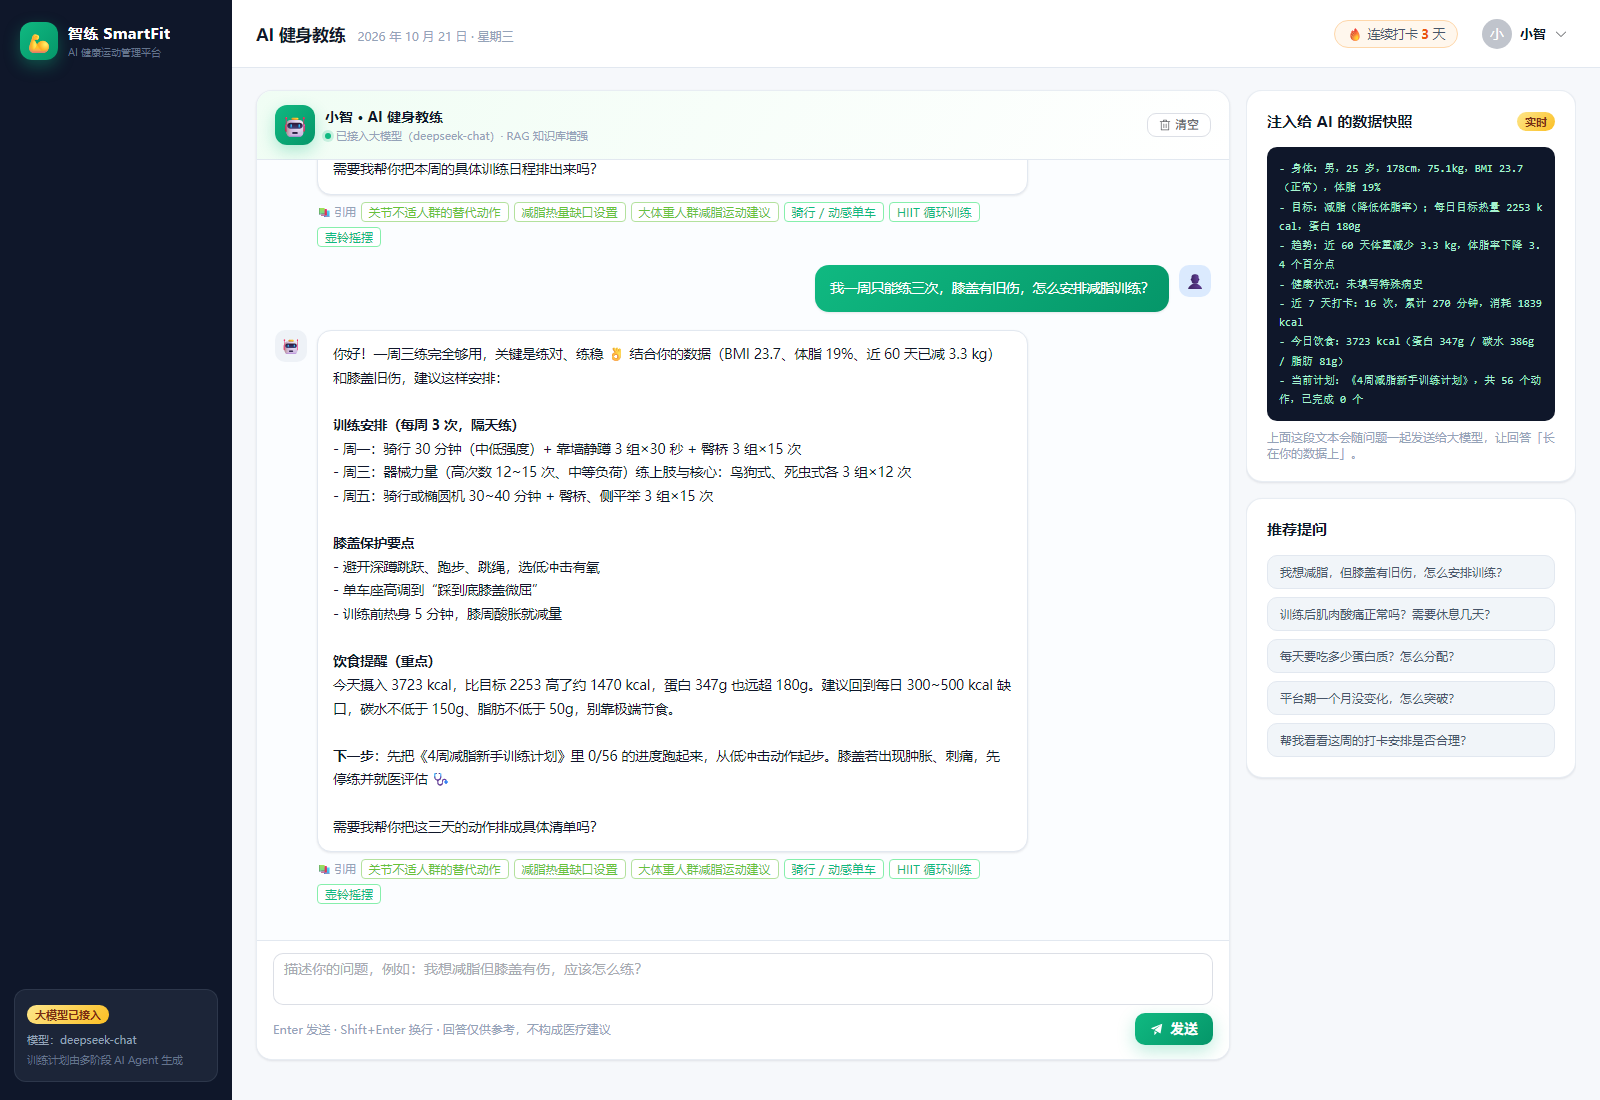
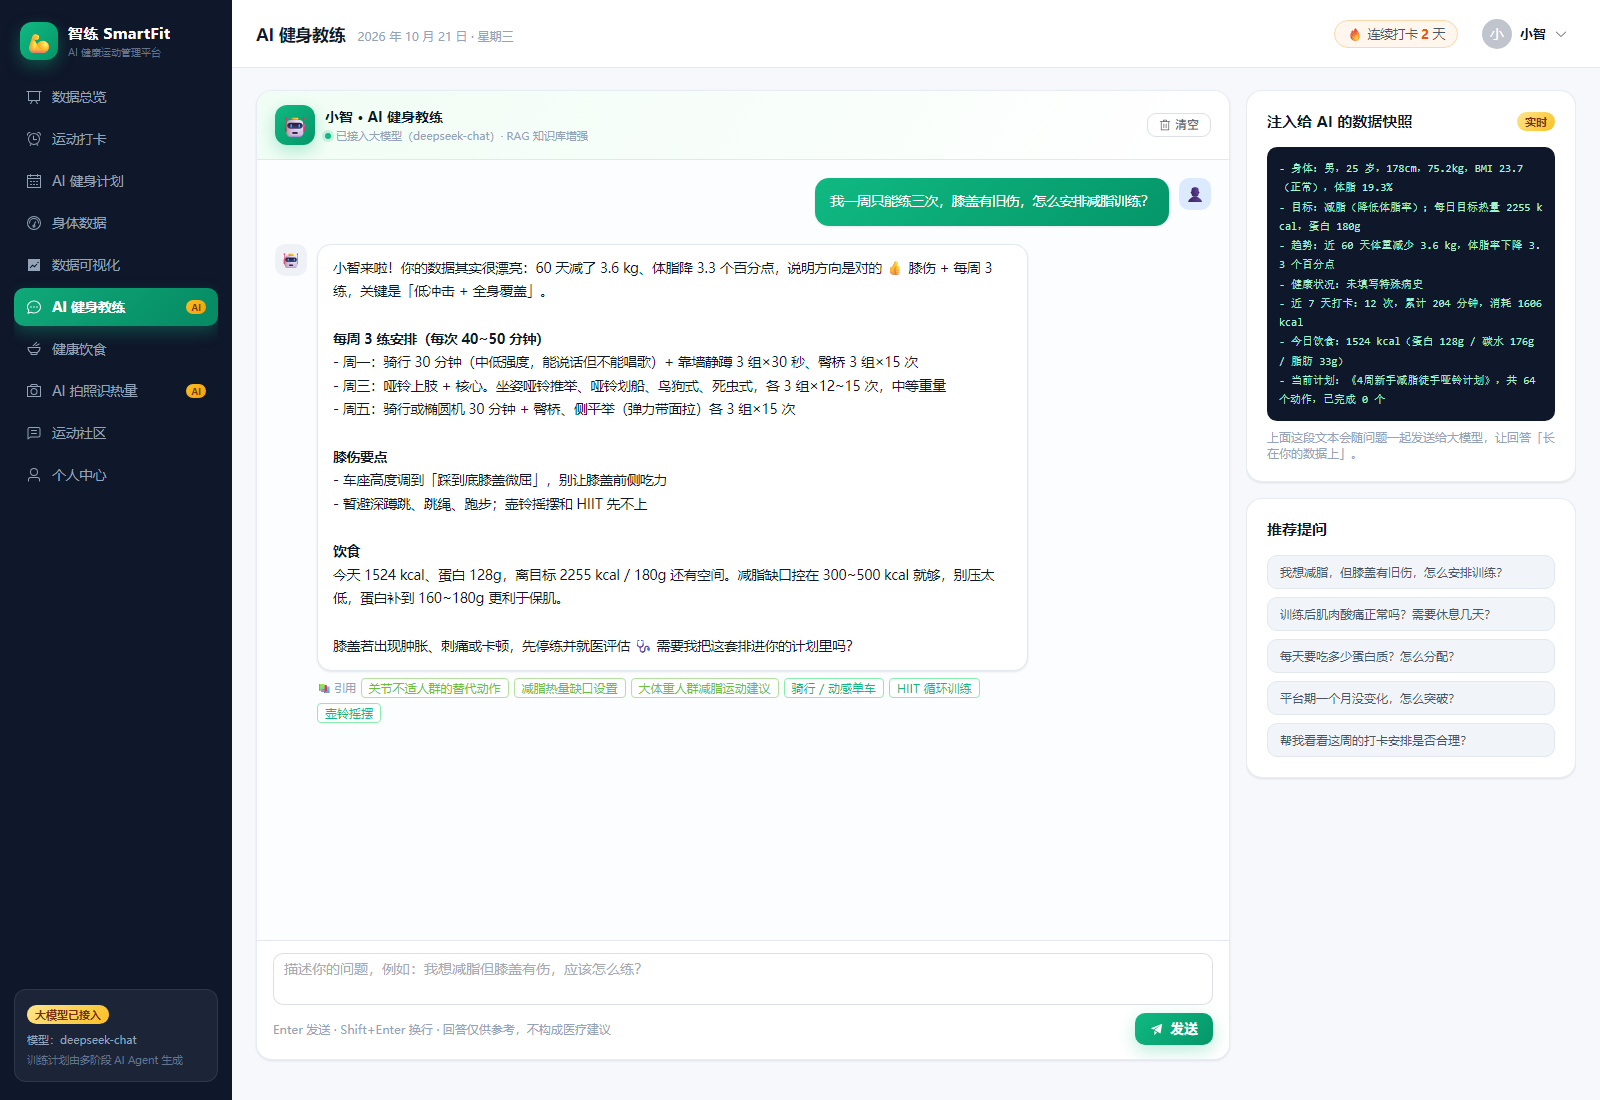
fix(web): 修复侧边栏菜单为空（导致「功能都不见了」的严重回归）
根因：MainLayout 用 router.getRoutes() 生成菜单，而 getRoutes() 返回的是扁平化记录，
children 里的 { path: '', redirect: '/dashboard' } 会被规范化成 path === '/'，与父路由撞车；
find(r => r.path === '/') 命中那条空子路由（无 children）时，菜单数组为空，
表现为侧边栏整块消失、只剩当前页面内容 —— 用户会直接以为所有功能都没了。

修复：改用 router.options.routes（原始配置，结构稳定），并过滤掉 path 为空的 redirect 占位项。

同时新增 tools/audit-pages.mjs 页面功能体检脚本：
- 读取侧边栏菜单并硬断言「菜单覆盖所有页面」，防止此类静默回归
- 逐页检查标志性文案是否渲染（10 页 / 34 项断言）
- 本次体检结果：菜单 10/10、页面 10/10 全部通过

diff --git a/web/src/layouts/MainLayout.vue b/web/src/layouts/MainLayout.vue
@@ -1,4 +1,4 @@
-<!--
+<!--
   主布局：左侧导航 + 顶部栏 + 内容区
   ---------------------------------------------------------------
   导航项直接由路由表 meta 生成，新增页面只需在 router 里加一条，侧边栏自动出现。
@@ -127,11 +127,20 @@ const streak = ref(0);
 /** 移动端导航抽屉开关（≤900px 时由顶栏汉堡按钮控制） */
 const navOpen = ref(false);
 
-/** 菜单由路由表生成（只取布局下的子路由） */
+/**
+ * 菜单由路由表生成（只取布局下的子路由）
+ * ---------------------------------------------------------------------------
+ * 这里必须用 router.options.routes（原始配置）而不是 router.getRoutes()。
+ * 踩过的坑：getRoutes() 返回的是「扁平化 + 规范化」后的记录列表，children 里的
+ * `{ path: '', redirect: '/dashboard' }` 会被规范化成 path === '/'，与父路由撞车；
+ * find(r => r.path === '/') 一旦命中那条空子路由（它没有 children），菜单就会变成空数组，
+ * 表现为「侧边栏整块消失、只剩当前页面」——看起来像所有功能都没了。
+ * 用原始配置则结构稳定：父路由的 children 就是那 10 个页面。
+ */
 const menus = computed(() => {
-  const layoutRoute = router.getRoutes().find((r) => r.path === '/');
-  return (layoutRoute?.children || [])
-    .filter((c) => c.meta?.title && c.path !== '')
+  const rootRoute = router.options.routes.find((r) => r.path === '/' && Array.isArray(r.children) && r.children.length);
+  return (rootRoute?.children || [])
+    .filter((c) => c.meta?.title && c.path)   // 过滤掉 path 为空的 redirect 占位项
     .map((c) => ({ path: `/${c.path}`, title: c.meta.title, icon: c.meta.icon, ai: c.meta.ai }));
 });
 
